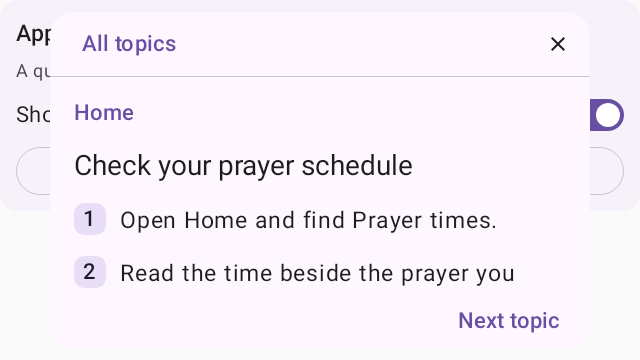
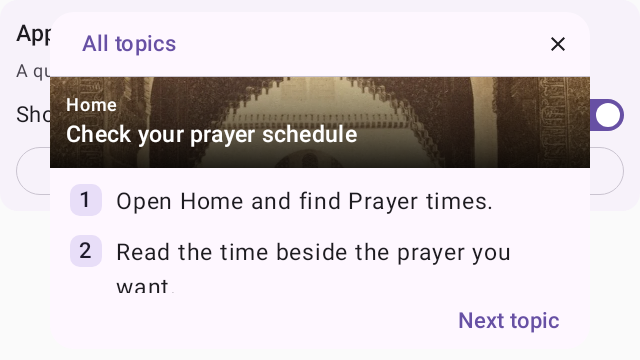
Illustrate guide topics and animate walkthrough navigation

Changed region(s): [[0.0625, 0.2139, 0.9375, 0.825]]

diff --git a/core/components/src/commonMain/kotlin/com/starception/submission/settings/components/AppGuide.kt b/core/components/src/commonMain/kotlin/com/starception/submission/settings/components/AppGuide.kt
@@ -1,6 +1,19 @@
 package com.starception.submission.settings.components
 
+import androidx.compose.animation.AnimatedContent
+import androidx.compose.animation.fadeIn
+import androidx.compose.animation.fadeOut
+import androidx.compose.animation.scaleIn
+import androidx.compose.animation.scaleOut
+import androidx.compose.animation.togetherWith
+import androidx.compose.foundation.Image
+import androidx.compose.foundation.background
 import androidx.compose.foundation.clickable
+import androidx.compose.ui.graphics.Brush
+import androidx.compose.ui.graphics.Color
+import androidx.compose.ui.layout.ContentScale
+import com.starception.submission.core.images.resources.*
+import org.jetbrains.compose.resources.painterResource
 import androidx.compose.ui.composed
 import androidx.compose.ui.layout.boundsInWindow
 import androidx.compose.ui.layout.onGloballyPositioned
@@ -243,6 +256,29 @@ fun AppGuideSettings(store: AppGuideStore = rememberAppGuideStore()) {
 }
 
 @Composable
+private fun GuideArtwork(topic: GuideSection, modifier: Modifier = Modifier) {
+    val image = when (topic) {
+        GuideSection.HOME -> Res.drawable.home_cover_prayer_day_portrait
+        GuideSection.READING -> Res.drawable.home_cover_quran_portrait
+        GuideSection.SEARCH -> Res.drawable.home_cover_qibla_portrait
+        GuideSection.FAMILY -> Res.drawable.home_getty_courtyard_night
+        GuideSection.SAVED -> Res.drawable.home_getty_arches_night
+        GuideSection.RECITERS -> Res.drawable.home_cover_prayer_night_portrait
+        GuideSection.SETTINGS -> Res.drawable.home_getty_tiles_day
+    }
+    Box(modifier, contentAlignment = Alignment.BottomStart) {
+        Image(painterResource(image), null, Modifier.matchParentSize(), contentScale = ContentScale.Crop)
+        Box(Modifier.matchParentSize().background(Brush.verticalGradient(listOf(Color.Transparent,
+            Color.Black.copy(alpha = .84f)))))
+        Column(Modifier.padding(16.dp)) {
+            Text(topic.label, style = MaterialTheme.typography.labelMedium, color = Color.White)
+            Text(topic.title, style = MaterialTheme.typography.titleMedium, color = Color.White,
+                modifier = Modifier.semantics { heading() })
+        }
+    }
+}
+
+@Composable
 private fun AppGuideTour(store: AppGuideStore, initial: GuideSection? = null, onClose: () -> Unit) {
     val topics = remember(store) { GuideSection.entries.sortedBy { store.visited(it) } }
     var selected by rememberSaveable { mutableStateOf(initial) }
@@ -268,28 +304,37 @@ private fun AppGuideTour(store: AppGuideStore, initial: GuideSection? = null, on
                         }
                     }
                     HorizontalDivider(color = colors.outlineVariant)
-                    key(topic) {
-                        Column(Modifier.weight(1f, fill = false).verticalScroll(rememberScrollState())) {
-                            if (topic == null) topics.forEach { item ->
-                                ListItem(
-                                    modifier = Modifier.clickable { selected = item },
-                                    leadingContent = { Icon(item.icon, null, tint = colors.primary) },
-                                    overlineContent = { Text(item.label) },
-                                    headlineContent = { Text(item.title) },
-                                    trailingContent = { Icon(Icons.Outlined.ChevronRight, null) },
-                                )
-                            } else Column(Modifier.padding(horizontal = 24.dp, vertical = 20.dp),
-                                verticalArrangement = Arrangement.spacedBy(18.dp)) {
-                                Text(topic.label, style = MaterialTheme.typography.labelLarge, color = colors.primary)
-                                Text(topic.title, style = MaterialTheme.typography.headlineSmall, modifier = Modifier.semantics { heading() })
-                                topic.steps.forEachIndexed { index, instruction ->
-                                    Row(horizontalArrangement = Arrangement.spacedBy(14.dp)) {
-                                        Surface(color = colors.secondaryContainer, shape = RoundedCornerShape(10.dp)) {
-                                            Box(Modifier.sizeIn(minWidth = 32.dp, minHeight = 32.dp), contentAlignment = Alignment.Center) {
-                                                Text((index + 1).toString(), style = MaterialTheme.typography.labelLarge)
+                    AnimatedContent(targetState = topic, modifier = Modifier.weight(1f, fill = false),
+                        transitionSpec = {
+                            (fadeIn() + scaleIn(initialScale = .96f)) togetherWith
+                                (fadeOut() + scaleOut(targetScale = 1.02f))
+                        }, label = "Guide topic") { page ->
+                        Column(Modifier.fillMaxWidth().verticalScroll(rememberScrollState())) {
+                            if (page == null) Column(Modifier.padding(12.dp), verticalArrangement = Arrangement.spacedBy(10.dp)) {
+                                val rows = listOf(topics.take(1)) + topics.drop(1).chunked(2)
+                                rows.forEach { row ->
+                                    Row(Modifier.fillMaxWidth(), horizontalArrangement = Arrangement.spacedBy(10.dp)) {
+                                        row.forEach { item ->
+                                            Surface(onClick = { selected = item }, modifier = Modifier.weight(1f),
+                                                shape = RoundedCornerShape(16.dp)) {
+                                                GuideArtwork(item, Modifier.fillMaxWidth().heightIn(min = if (row.size == 1) 132.dp else 108.dp))
                                             }
                                         }
-                                        Text(instruction, Modifier.weight(1f), style = MaterialTheme.typography.bodyLarge)
+                                    }
+                                }
+                            } else {
+                                GuideArtwork(page, Modifier.fillMaxWidth().heightIn(min = if (this@BoxWithConstraints.maxHeight < 400.dp) 76.dp else 180.dp))
+                                Column(Modifier.padding(horizontal = 20.dp, vertical = 16.dp),
+                                    verticalArrangement = Arrangement.spacedBy(16.dp)) {
+                                    page.steps.forEachIndexed { index, instruction ->
+                                        Row(horizontalArrangement = Arrangement.spacedBy(14.dp)) {
+                                            Surface(color = colors.secondaryContainer, shape = RoundedCornerShape(10.dp)) {
+                                                Box(Modifier.sizeIn(minWidth = 32.dp, minHeight = 32.dp), contentAlignment = Alignment.Center) {
+                                                    Text((index + 1).toString(), style = MaterialTheme.typography.labelLarge)
+                                                }
+                                            }
+                                            Text(instruction, Modifier.weight(1f), style = MaterialTheme.typography.bodyLarge)
+                                        }
                                     }
                                 }
                             }

diff --git a/app/src/testDemo/kotlin/com/starception/submission/settings/components/AppGuideTest.kt b/app/src/testDemo/kotlin/com/starception/submission/settings/components/AppGuideTest.kt
@@ -28,6 +28,16 @@ import java.util.concurrent.TimeUnit
 @GraphicsMode(GraphicsMode.Mode.NATIVE)
 class AppGuideTest {
     @get:Rule val compose = createComposeRule()
+    @OptIn(org.jetbrains.compose.resources.ExperimentalResourceApi::class)
+    private fun setGuideContent(content: @Composable () -> Unit) {
+        compose.setContent {
+            CompositionLocalProvider(androidx.compose.ui.platform.LocalInspectionMode provides true) {
+                org.jetbrains.compose.resources.PreviewContextConfigurationEffect()
+            }
+            content()
+        }
+    }
+
     private class Store : AppGuideStore {
         val visits = mutableSetOf<GuideSection>()
         val seenTips = mutableSetOf<GuideSection>()
@@ -53,7 +63,7 @@ class AppGuideTest {
         val store = Store()
         var section by mutableStateOf(GuideSection.HOME)
         var taps = 0
-        compose.setContent { MaterialTheme { Surface(Modifier.fillMaxSize()) {
+        setGuideContent { MaterialTheme { Surface(Modifier.fillMaxSize()) {
             Column(Modifier.padding(24.dp)) {
                 Text("Home", style = MaterialTheme.typography.headlineLarge)
                 Button(onClick = { taps++ }) { Text("Use the page") }
@@ -79,7 +89,7 @@ class AppGuideTest {
     @Test fun tipSitsAboveItsControlAndLeavesTheControlTappable() {
         val store = Store()
         var taps = 0
-        compose.setContent { MaterialTheme { Box(Modifier.fillMaxSize()) {
+        setGuideContent { MaterialTheme { Box(Modifier.fillMaxSize()) {
             Button(modifier = Modifier.align(androidx.compose.ui.Alignment.BottomCenter)
                 .appGuideAnchor(GuideSection.SAVED), onClick = { taps++ }) { Text("Open Saved") }
             AppGuideHost(GuideSection.SAVED, store = store)
@@ -95,7 +105,7 @@ class AppGuideTest {
 
     @Test fun tipOpensItsOwnInstructionsAndCanSwitchTopics() {
         val store = Store()
-        compose.setContent { MaterialTheme { Box(Modifier.fillMaxSize()) {
+        setGuideContent { MaterialTheme { Box(Modifier.fillMaxSize()) {
             AppGuideHost(GuideSection.SAVED, store = store)
         } } }
         waitForTip()
@@ -110,7 +120,7 @@ class AppGuideTest {
 
     @Test fun replayPrioritizesUnvisitedSectionsWithoutInventingVisits() {
         val store = Store().apply { visits += GuideSection.HOME; visits += GuideSection.SETTINGS; tips = false }
-        compose.setContent { MaterialTheme(colorScheme = darkColorScheme()) { AppGuideSettings(store) } }
+        setGuideContent { MaterialTheme(colorScheme = darkColorScheme()) { AppGuideSettings(store) } }
         compose.onNodeWithTag("appGuideReplay").performClick()
         compose.onNodeWithTag("appGuideTour").captureRoboImage("src/testDemo/screenshots/app_guide_topics.png")
         compose.onNodeWithText(GuideSection.READING.title).assertIsDisplayed()
@@ -129,7 +139,7 @@ class AppGuideTest {
     @Test @Config(qualifiers = "w640dp-h360dp-land-mdpi")
     fun largeTextLandscapeKeepsTourNavigationVisible() {
         RuntimeEnvironment.setFontScale(1.5f)
-        compose.setContent { MaterialTheme { AppGuideSettings(Store()) } }
+        setGuideContent { MaterialTheme { AppGuideSettings(Store()) } }
         compose.onNodeWithTag("appGuideReplay").assertIsDisplayed().performClick()
         compose.onNodeWithText(GuideSection.HOME.title).performClick()
         compose.onNodeWithTag("appGuideNext").assertIsDisplayed()
@@ -142,7 +152,7 @@ class AppGuideTest {
 
     @Test fun disabledTipsStillAllowReplayAndTrackRealVisits() {
         val store = Store().apply { tips = false }
-        compose.setContent { MaterialTheme { Column { AppGuideHost(GuideSection.SEARCH, store = store); AppGuideSettings(store) } } }
+        setGuideContent { MaterialTheme { Column { AppGuideHost(GuideSection.SEARCH, store = store); AppGuideSettings(store) } } }
         compose.waitForIdle()
         ShadowLooper.idleMainLooper(1, TimeUnit.SECONDS)
         compose.onNodeWithTag("appGuideTip").assertDoesNotExist()
@@ -156,7 +166,7 @@ class AppGuideTest {
     @Test fun aReplayedTipIsNotRepeatedOnTheFirstActualVisit() {
         val store = Store()
         var section by mutableStateOf<GuideSection?>(null)
-        compose.setContent { MaterialTheme { Column {
+        setGuideContent { MaterialTheme { Column {
             AppGuideHost(section, store = store)
             AppGuideSettings(store)
         } } }
@@ -175,7 +185,7 @@ class AppGuideTest {
     @Test fun inactiveScreensAreNotCountedAsVisits() {
         val store = Store()
         var enabled by mutableStateOf(false)
-        compose.setContent { MaterialTheme { AppGuideHost(GuideSection.HOME, enabled, store) } }
+        setGuideContent { MaterialTheme { AppGuideHost(GuideSection.HOME, enabled, store) } }
         compose.waitForIdle()
         assertTrue(store.visits.isEmpty())
         compose.runOnIdle { enabled = true }
@@ -185,7 +195,7 @@ class AppGuideTest {
 
     @Test fun nestedSectionsNeverStackMultipleTips() {
         val store = Store()
-        compose.setContent { MaterialTheme {
+        setGuideContent { MaterialTheme {
             AppGuideHost(GuideSection.SETTINGS, store = store)
             AppGuideHost(GuideSection.RECITERS, store = store)
         } }
@@ -196,7 +206,7 @@ class AppGuideTest {
 
     @Test fun persistedVisitPreventsAnotherTipAfterCompositionRecreation() {
         var generation by mutableIntStateOf(0)
-        compose.setContent { MaterialTheme { key(generation) { AppGuideHost(GuideSection.FAMILY) } } }
+        setGuideContent { MaterialTheme { key(generation) { AppGuideHost(GuideSection.FAMILY) } } }
         waitForTip()
         compose.runOnIdle { generation++ }
         compose.waitForIdle()
